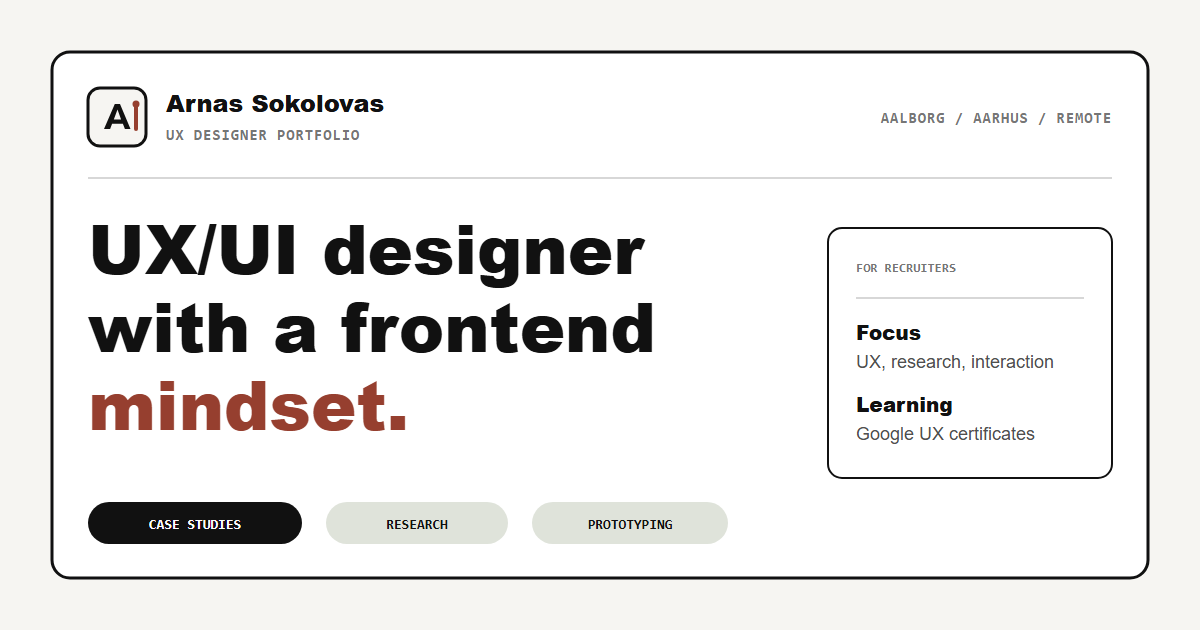
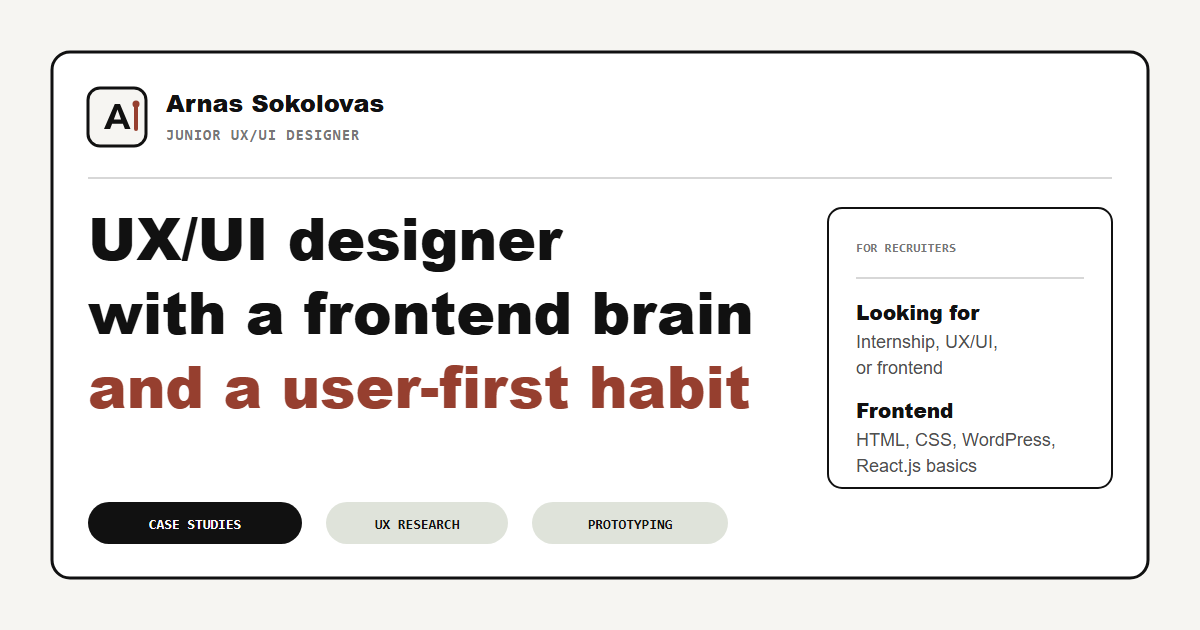
meta

diff --git a/index.html b/index.html
@@ -3,7 +3,7 @@
   <head>
     <meta charset="UTF-8" />
     <meta name="viewport" content="width=device-width, initial-scale=1.0" />
-    <meta name="description" content="UX/UI and frontend portfolio of Arnas Sokolovas. Case studies, interface design, research, prototyping, accessibility, and product-minded frontend work." />
+    <meta name="description" content="Junior UX/UI designer portfolio by Arnas Sokolovas, with case studies in research, interface design, prototyping, usability testing, and frontend-minded product work." />
     <meta name="author" content="Arnas Sokolovas" />
     <meta name="theme-color" content="#F6F5F2" />
     <meta name="color-scheme" content="light" />
@@ -12,8 +12,8 @@
 
     <meta property="og:type" content="website" />
     <meta property="og:url" content="https://arnas-so.com/" />
-    <meta property="og:title" content="Arnas Sokolovas | UX/UI & Frontend Designer" />
-    <meta property="og:description" content="UX/UI and frontend portfolio with case studies in research, interface design, prototyping, accessibility, and product thinking." />
+    <meta property="og:title" content="Arnas Sokolovas | Junior UX/UI Designer" />
+    <meta property="og:description" content="Portfolio with UX/UI case studies, user research, prototypes, usability testing, and a frontend brain." />
     <meta property="og:image" content="https://arnas-so.com/arnas-sokolovas-portfolio-preview-v2.png" />
     <meta property="og:image:url" content="https://arnas-so.com/arnas-sokolovas-portfolio-preview-v2.png" />
     <meta property="og:image:secure_url" content="https://arnas-so.com/arnas-sokolovas-portfolio-preview-v2.png" />
@@ -24,8 +24,8 @@
     <meta property="og:site_name" content="Arnas Sokolovas" />
 
     <meta name="twitter:card" content="summary_large_image" />
-    <meta name="twitter:title" content="Arnas Sokolovas | UX/UI & Frontend Designer" />
-    <meta name="twitter:description" content="UX/UI and frontend portfolio with case studies in research, interface design, prototyping, accessibility, and product thinking." />
+    <meta name="twitter:title" content="Arnas Sokolovas | Junior UX/UI Designer" />
+    <meta name="twitter:description" content="Portfolio with UX/UI case studies, user research, prototypes, usability testing, and a frontend brain." />
     <meta name="twitter:image" content="https://arnas-so.com/arnas-sokolovas-portfolio-preview-v2.png" />
     <meta name="twitter:image:src" content="https://arnas-so.com/arnas-sokolovas-portfolio-preview-v2.png" />
     <meta name="twitter:image:alt" content="Arnas Sokolovas UX/UI and frontend portfolio preview" />
@@ -40,7 +40,7 @@
         "url": "https://arnas-so.com/",
         "image": "https://arnas-so.com/arnas-sokolovas-portfolio-preview-v2.png",
         "jobTitle": "Junior UX/UI and Frontend Designer",
-        "description": "UX/UI and frontend designer with case studies in research, interface design, prototyping, accessibility, and product-minded frontend work.",
+        "description": "Junior UX/UI designer with case studies in research, interface design, prototyping, usability testing, and frontend-minded product work.",
         "sameAs": [
           "https://www.linkedin.com/in/arnassokolovas/"
         ],
@@ -55,7 +55,7 @@
       }
     </script>
 
-    <title>Arnas Sokolovas | UX/UI & Frontend Designer</title>
+    <title>Arnas Sokolovas | Junior UX/UI Designer</title>
   </head>
   <body>
     <div id="root"></div>

diff --git a/src/utils/pageMeta.js b/src/utils/pageMeta.js
@@ -1,8 +1,8 @@
 const defaultImage = 'https://arnas-so.com/arnas-sokolovas-portfolio-preview-v2.png'
 
 export const homeMeta = {
-  title: 'Arnas Sokolovas | UX/UI & Frontend Designer',
-  description: 'UX/UI and frontend portfolio with case studies in research, interface design, prototyping, accessibility, and product thinking.',
+  title: 'Arnas Sokolovas | Junior UX/UI Designer',
+  description: 'Portfolio with UX/UI case studies, user research, prototypes, usability testing, and a frontend brain.',
   url: 'https://arnas-so.com/',
   image: defaultImage,
 }
